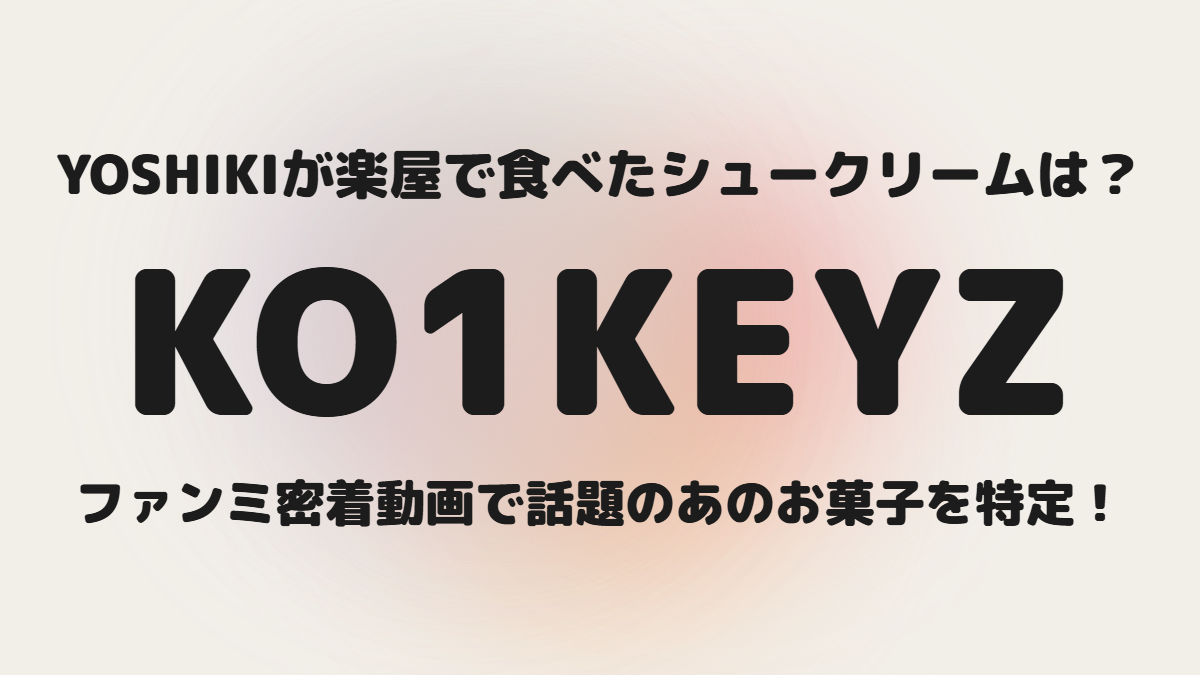
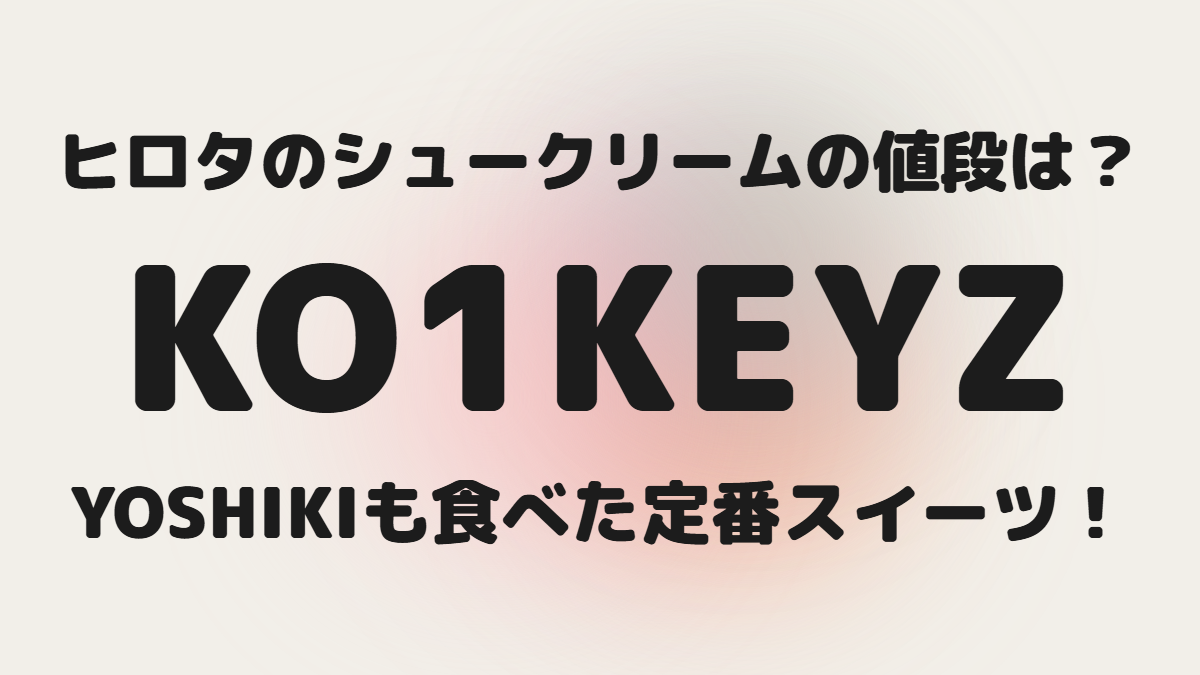
リライト: ヒロタのシュークリーム記事をproduct情報主役に(JP/KR/EN下書き)
タイトルを「YOSHIKIも食べた！ヒロタのシュークリームの値段は？」に変更。
時期依存の表現を削除し、種類・値段・購入先を先頭に配置。アイキャッチ2種を更新。

diff --git a/images/ko1keyz_yoshiki_hirota_cream_puff_eyecatch.html b/images/ko1keyz_yoshiki_hirota_cream_puff_eyecatch.html
@@ -30,10 +30,10 @@ body { width: 1200px; height: 675px; overflow: hidden; }
 </head>
 <body>
 <div class="canvas">
-  <div class="smoke" style="width:474px;height:474px;left:491px;top:78px;background:radial-gradient(circle,rgba(240,150,160,0.95) 0%,transparent 66%);"></div><div class="smoke" style="width:572px;height:572px;left:322px;top:144px;background:radial-gradient(circle,rgba(246,178,130,0.85) 0%,transparent 66%);"></div><div class="smoke" style="width:561px;height:561px;left:166px;top:30px;background:radial-gradient(circle,rgba(196,165,220,0.80) 0%,transparent 66%);"></div><div class="smoke" style="width:558px;height:558px;left:224px;top:26px;background:radial-gradient(circle,rgba(186,214,170,0.70) 0%,transparent 66%);"></div><div class="smoke" style="width:459px;height:459px;left:273px;top:104px;background:radial-gradient(circle,rgba(250,205,205,0.85) 0%,transparent 66%);"></div>
-  <div class="fit top" data-max="90">YOSHIKIが楽屋で食べたシュークリームは？</div>
+  <div class="smoke" style="width:547px;height:547px;left:388px;top:94px;background:radial-gradient(circle,rgba(240,150,160,0.95) 0%,transparent 66%);"></div><div class="smoke" style="width:463px;height:463px;left:519px;top:173px;background:radial-gradient(circle,rgba(246,178,130,0.85) 0%,transparent 66%);"></div><div class="smoke" style="width:451px;height:451px;left:508px;top:44px;background:radial-gradient(circle,rgba(196,165,220,0.80) 0%,transparent 66%);"></div><div class="smoke" style="width:427px;height:427px;left:551px;top:26px;background:radial-gradient(circle,rgba(186,214,170,0.70) 0%,transparent 66%);"></div><div class="smoke" style="width:457px;height:457px;left:262px;top:168px;background:radial-gradient(circle,rgba(250,205,205,0.85) 0%,transparent 66%);"></div>
+  <div class="fit top" data-max="90">ヒロタのシュークリームの値段は？</div>
   <div class="fit main" data-max="200">KO1KEYZ</div>
-  <div class="fit bottom" data-max="78">ファンミ密着動画で話題のあのお菓子を特定！</div>
+  <div class="fit bottom" data-max="78">YOSHIKIも食べた定番スイーツ！</div>
 </div>
 <script>
 // 各行を横幅いっぱい(1090px)まで拡大する(Canvaテンプレの「文字が画面いっぱい」の質感を再現)

diff --git a/images/ko1keyz_yoshiki_hirota_cream_puff_eyecatch_kr.html b/images/ko1keyz_yoshiki_hirota_cream_puff_eyecatch_kr.html
@@ -30,10 +30,10 @@ body { width: 1200px; height: 675px; overflow: hidden; }
 </head>
 <body>
 <div class="canvas">
-  <div class="smoke" style="width:437px;height:437px;left:432px;top:79px;background:radial-gradient(circle,rgba(240,150,160,0.95) 0%,transparent 66%);"></div><div class="smoke" style="width:600px;height:600px;left:331px;top:51px;background:radial-gradient(circle,rgba(246,178,130,0.85) 0%,transparent 66%);"></div><div class="smoke" style="width:500px;height:500px;left:207px;top:126px;background:radial-gradient(circle,rgba(196,165,220,0.80) 0%,transparent 66%);"></div><div class="smoke" style="width:557px;height:557px;left:391px;top:79px;background:radial-gradient(circle,rgba(186,214,170,0.70) 0%,transparent 66%);"></div><div class="smoke" style="width:445px;height:445px;left:495px;top:144px;background:radial-gradient(circle,rgba(250,205,205,0.85) 0%,transparent 66%);"></div>
-  <div class="fit top" data-max="90">YOSHIKI가 대기실에서 먹은 슈크림은?</div>
+  <div class="smoke" style="width:576px;height:576px;left:379px;top:90px;background:radial-gradient(circle,rgba(240,150,160,0.95) 0%,transparent 66%);"></div><div class="smoke" style="width:513px;height:513px;left:260px;top:-7px;background:radial-gradient(circle,rgba(246,178,130,0.85) 0%,transparent 66%);"></div><div class="smoke" style="width:606px;height:606px;left:397px;top:92px;background:radial-gradient(circle,rgba(196,165,220,0.80) 0%,transparent 66%);"></div><div class="smoke" style="width:578px;height:578px;left:261px;top:124px;background:radial-gradient(circle,rgba(186,214,170,0.70) 0%,transparent 66%);"></div><div class="smoke" style="width:519px;height:519px;left:411px;top:89px;background:radial-gradient(circle,rgba(250,205,205,0.85) 0%,transparent 66%);"></div>
+  <div class="fit top" data-max="90">히로타 슈크림 가격은?</div>
   <div class="fit main" data-max="200">KO1KEYZ</div>
-  <div class="fit bottom" data-max="78">팬미팅 비하인드 영상에서 화제가 된 그 간식!</div>
+  <div class="fit bottom" data-max="78">YOSHIKI도 먹은 그 간식!</div>
 </div>
 <script>
 // 各行を横幅いっぱい(1090px)まで拡大する(Canvaテンプレの「文字が画面いっぱい」の質感を再現)
